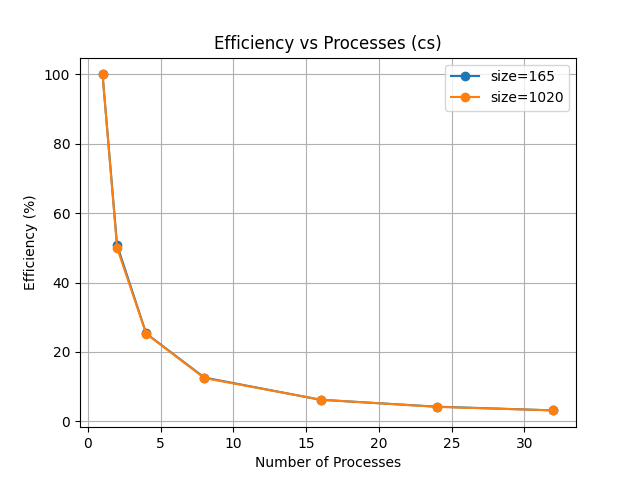
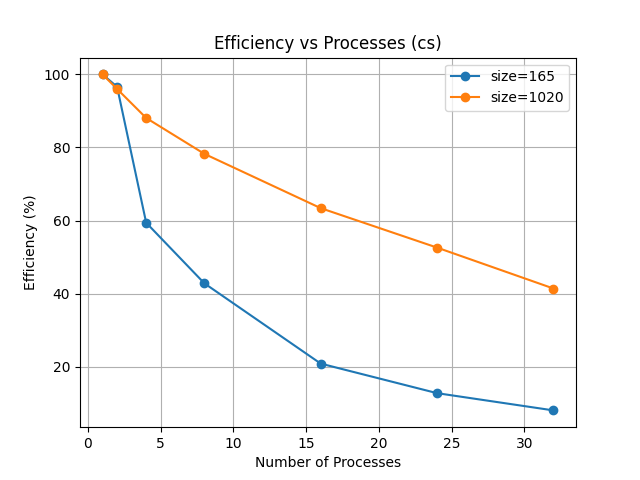
parellelize the code

diff --git a/julia_par.py b/julia_par.py
@@ -38,11 +38,70 @@ def compute_julia_set_sequential(xmin, xmax, ymin, ymax, im_width, im_height, c)
 
     return julia
 
-def compute_julia_in_parallel(size, xmin, xmax, ymin, ymax, patch, nprocs, c):
+def compute_patch(task):
+    # x_start, y_start: top-left corner of this patch in the full image
+    # patch: patch size in pixels (width = height)
+    # meta: tuple with shared values like image size and complex plane bounds
+    x_start, y_start, patch, meta = task
+    size, xmin, xmax, ymin, ymax, c = meta
 
-    # replace the following code
-    # with a parallel version
-    julia_img = compute_julia_set_sequential(xmin, xmax, ymin, ymax, size, size, c)
+    # create an empty patch image to store computed values
+    patch_img = np.zeros((patch, patch))
+
+    # calculate pixel-to-complex-plane scaling
+    xwidth = xmax - xmin
+    yheight = ymax - ymin
+
+    zabs_max = 10 # maximum absolute value of z
+    nit_max = 300 # maximum number of iterations
+
+    for ix in range(patch):
+        for iy in range(patch):
+            nit = 0
+            px = x_start + ix
+            py = y_start + iy
+
+            # skip corners if patch extends outside image bounds
+            if px >= size or py >= size:
+                continue
+
+            # map pixel position to complex plane
+            z = complex(px / size * xwidth + xmin,
+                        py / size * yheight + ymin)
+
+            # do the iterations
+            while abs(z) <= zabs_max and nit < nit_max:
+                z = z**2 + c
+                nit += 1
+
+            # compute the ratio of iterations to max iterations
+            # and store it in the patch image (used for colouring)
+            ratio = nit / nit_max
+            patch_img[ix, iy] = ratio
+
+    return (x_start, y_start, patch_img)
+
+def compute_julia_in_parallel(size, xmin, xmax, ymin, ymax, patch, nprocs, c):
+    # prepare metadata that is shared across the patches
+    meta = (size, xmin, xmax, ymin, ymax, c)
+    tasks = []
+
+    # divide the full image into patches
+    # each task is a patch starting at (x, y) and going to (x+patch, y+patch)
+    for x in range(0, size, patch):
+        for y in range(0, size, patch):
+            tasks.append((x, y, patch, meta))
+
+    # compute in parallel
+    with Pool(processes=nprocs) as pool:
+        completed = pool.map(compute_patch, tasks, chunksize=1)
+
+    # assemble the final image
+    julia_img = np.zeros((size, size))
+    for x_start, y_start, patch_img in completed:
+        x_end = min(x_start + patch_img.shape[0], size)
+        y_end = min(y_start + patch_img.shape[1], size)
+        julia_img[x_start:x_end, y_start:y_end] = patch_img[:x_end - x_start, :y_end - y_start]
 
     return julia_img
 
